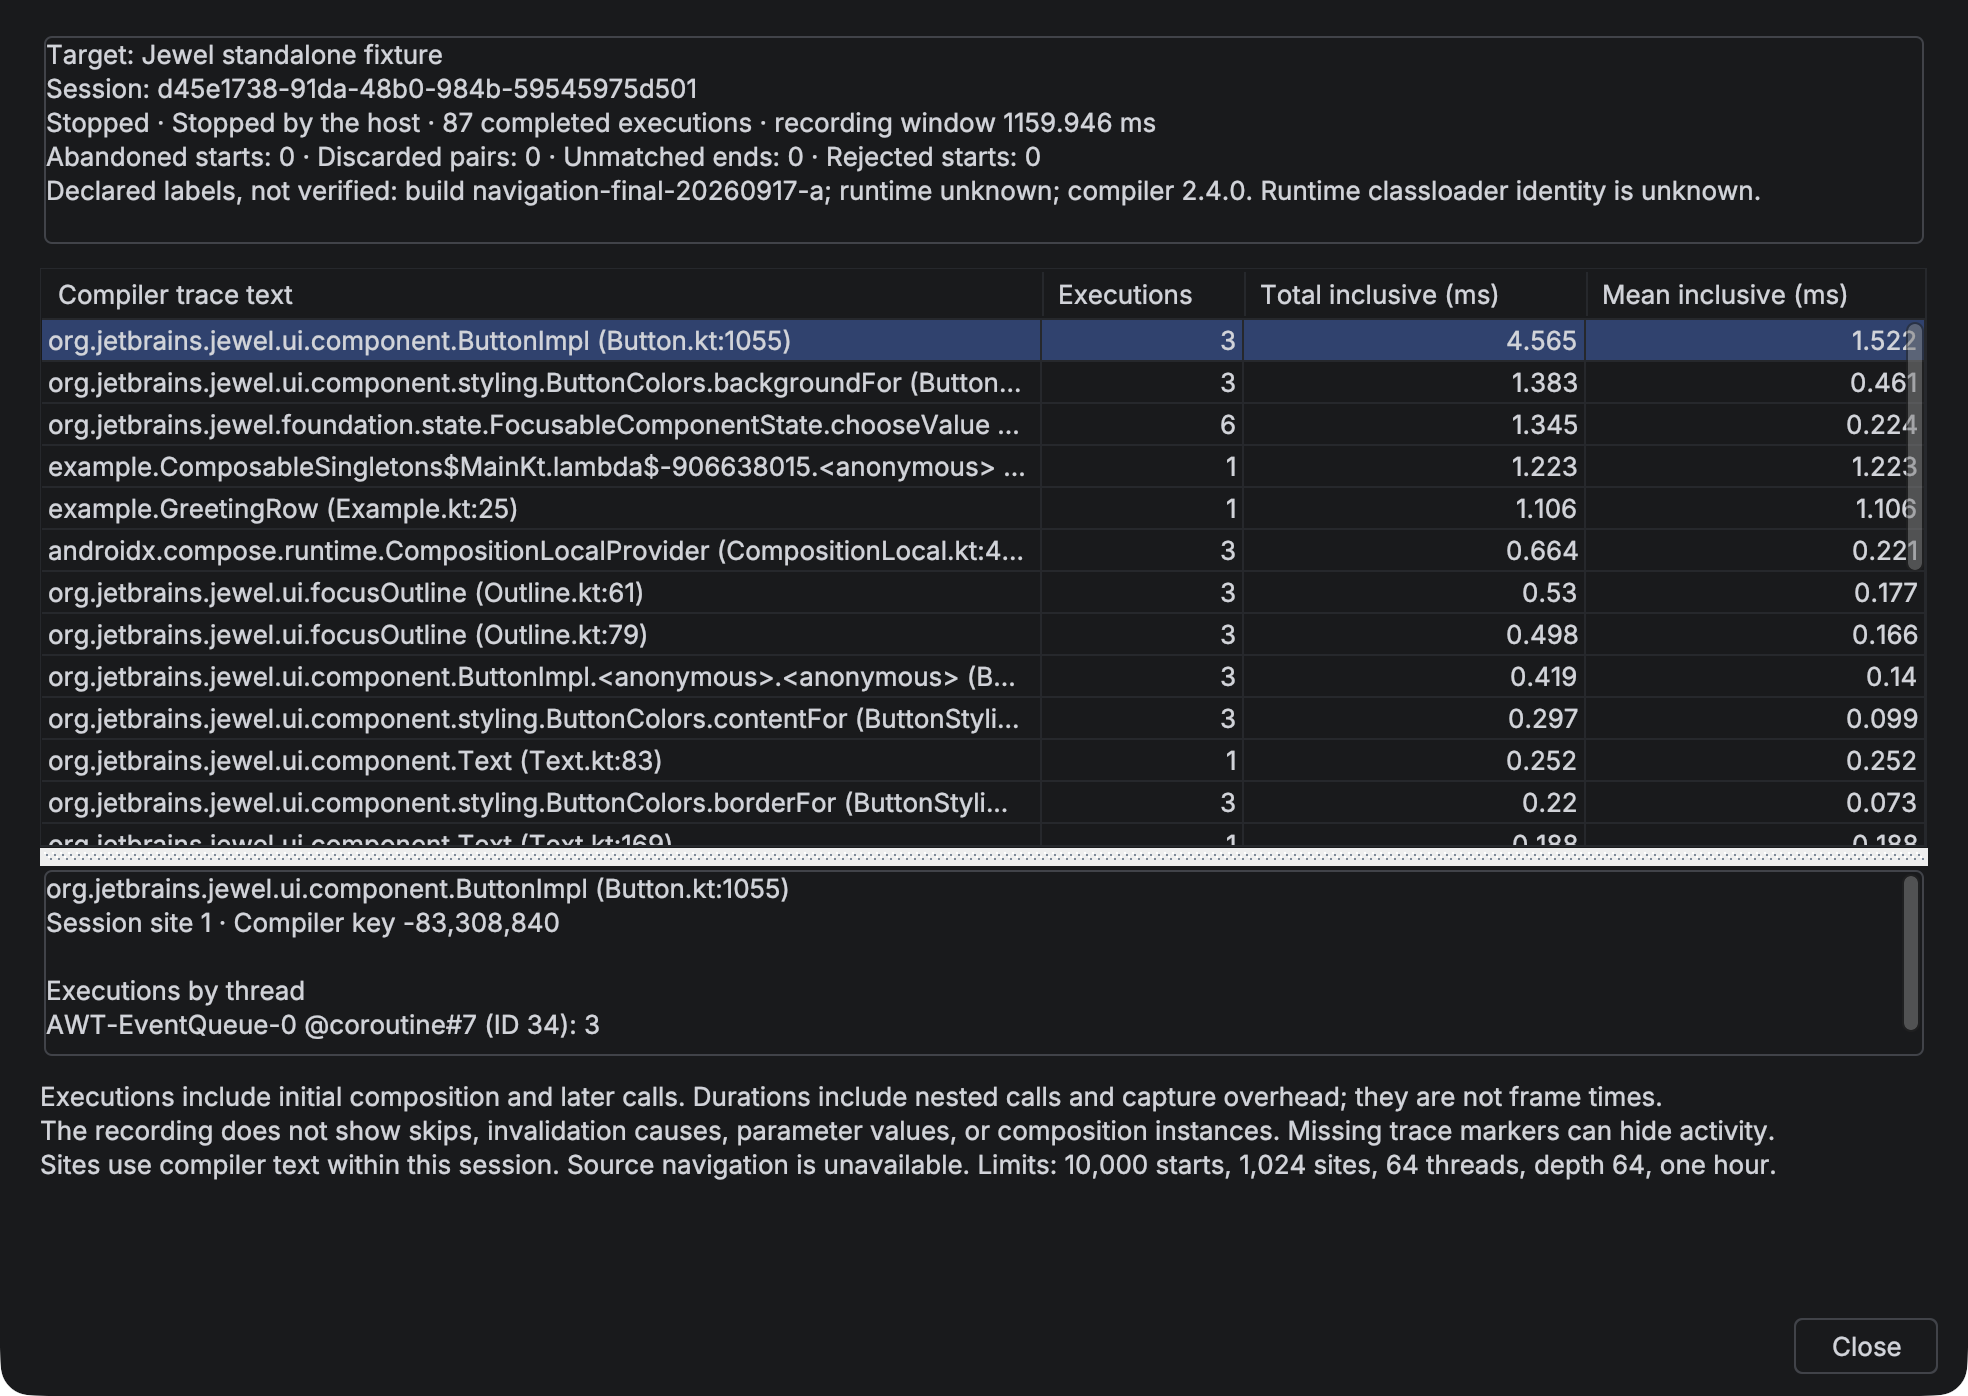
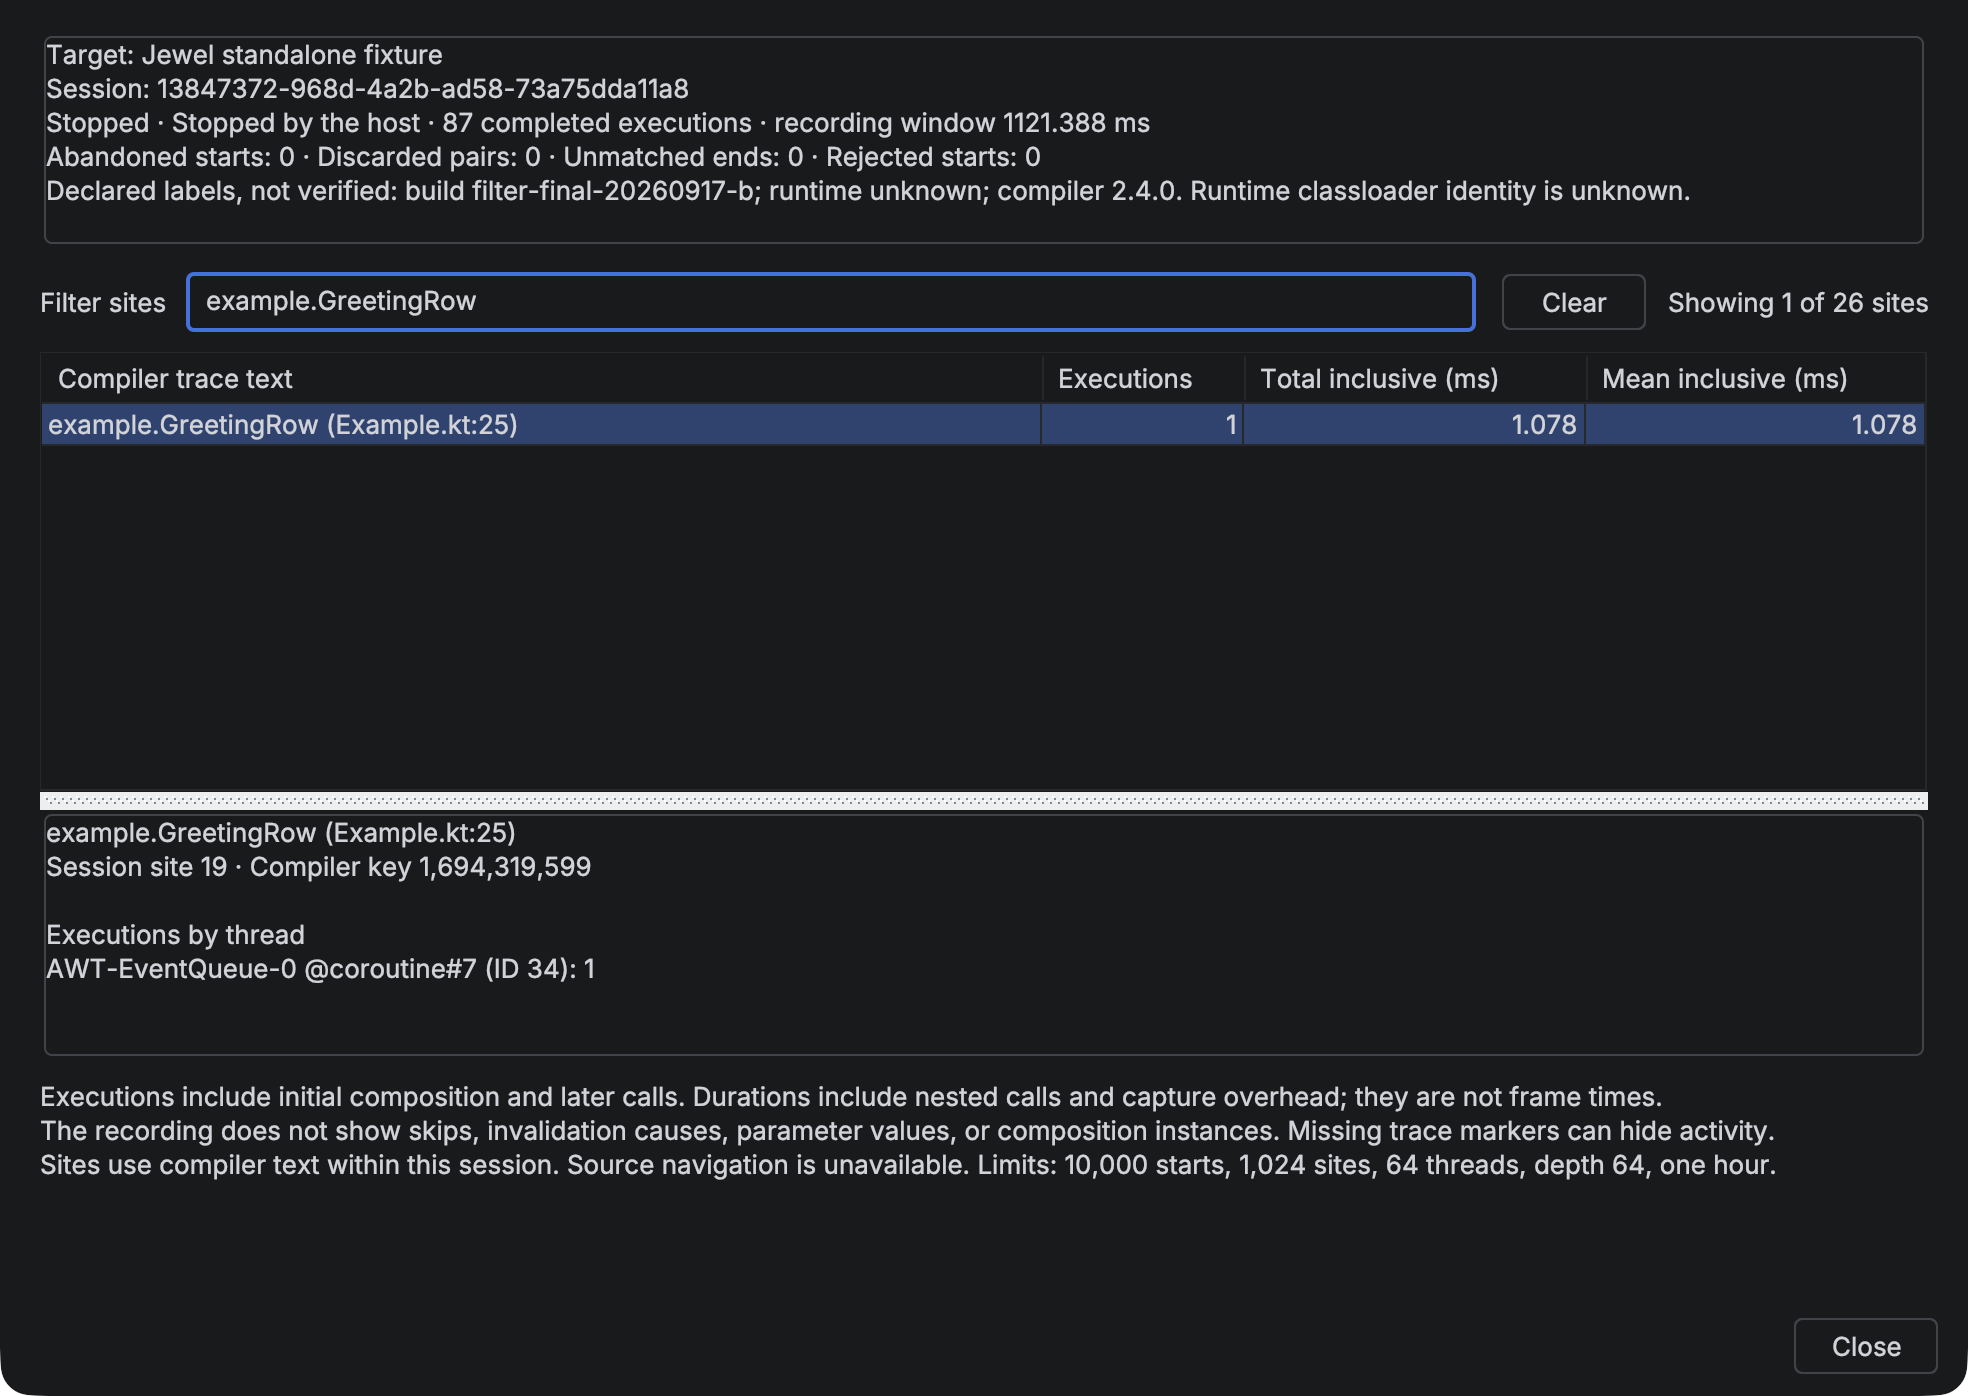
Add literal site filtering to saved recording reports
Preserve selection and session totals while filtering compiler trace text. Add focused tests and Spectre coverage for both targets. Refresh the Retina guide captures for version 0.3.2.

Validation: 54 plugin tests, 13 script tests, both IDE scenarios, static checks, package checks, and IU262 verification pass. GLM-5.3 and K3-256K reviews are clean.

diff --git a/src/main/kotlin/dev/sebastiano/jewel/tooling/RecordingReportPanel.kt b/src/main/kotlin/dev/sebastiano/jewel/tooling/RecordingReportPanel.kt
@@ -1,7 +1,9 @@
 package dev.sebastiano.jewel.tooling
 
+import com.intellij.ui.DocumentAdapter
 import com.intellij.ui.components.JBScrollPane
 import com.intellij.ui.components.JBTextArea
+import com.intellij.ui.components.JBTextField
 import com.intellij.ui.table.JBTable
 import com.intellij.util.ui.JBUI
 import com.intellij.util.ui.UIUtil
@@ -10,24 +12,38 @@ import dev.sebastiano.jewel.tooling.recording.SiteSummary
 import java.awt.BorderLayout
 import java.text.NumberFormat
 import java.util.Locale
+import javax.swing.JButton
 import javax.swing.JComponent
+import javax.swing.JLabel
 import javax.swing.JPanel
 import javax.swing.JSplitPane
 import javax.swing.ListSelectionModel
+import javax.swing.RowFilter
+import javax.swing.event.DocumentEvent
 import javax.swing.table.AbstractTableModel
 import javax.swing.table.DefaultTableCellRenderer
+import javax.swing.table.TableRowSorter
 import javax.swing.text.DefaultCaret
 
 private const val NANOS_PER_MILLISECOND = 1_000_000.0
 
 internal class RecordingReportPanel(private val data: RecordingReportData) {
   private val details = textArea("recording.site.details")
+  private val model = SitesModel(data.sites)
+  private val sorter = TableRowSorter(model)
+  private val filter =
+    JBTextField().apply {
+      name = "jewel-recording-filter"
+      accessibleContext.accessibleName = JewelToolingBundle.message("recording.filter.accessible")
+    }
+  private val count = JLabel().apply { putClientProperty("html.disable", true) }
+  private var filtering = false
   private val table =
-    JBTable(SitesModel(data.sites)).apply {
+    JBTable(model).apply {
       name = "jewel-recording-sites"
       accessibleContext.accessibleName = JewelToolingBundle.message("recording.sites")
       setSelectionMode(ListSelectionModel.SINGLE_SELECTION)
-      autoCreateRowSorter = true
+      rowSorter = sorter
       columnModel.getColumn(1).preferredWidth = 100
       columnModel.getColumn(2).preferredWidth = 170
       columnModel.getColumn(3).preferredWidth = 170
@@ -45,7 +61,9 @@ internal class RecordingReportPanel(private val data: RecordingReportData) {
           }
         },
       )
-      selectionModel.addListSelectionListener { if (!it.valueIsAdjusting) showSelection() }
+      selectionModel.addListSelectionListener {
+        if (!it.valueIsAdjusting && !filtering) showSelection()
+      }
     }
 
   val component: JComponent =
@@ -63,10 +81,17 @@ internal class RecordingReportPanel(private val data: RecordingReportData) {
         BorderLayout.NORTH,
       )
       add(
-        JSplitPane(JSplitPane.VERTICAL_SPLIT, JBScrollPane(table), JBScrollPane(details)).apply {
-          resizeWeight = 0.7
-          dividerLocation = JBUI.scale(290)
-          border = null
+        JPanel(BorderLayout(0, JBUI.scale(FILTER_GAP))).apply {
+          add(filterBar(), BorderLayout.NORTH)
+          add(
+            JSplitPane(JSplitPane.VERTICAL_SPLIT, JBScrollPane(table), JBScrollPane(details))
+              .apply {
+                resizeWeight = 0.7
+                dividerLocation = JBUI.scale(220)
+                border = null
+              },
+            BorderLayout.CENTER,
+          )
         },
         BorderLayout.CENTER,
       )
@@ -86,16 +111,83 @@ internal class RecordingReportPanel(private val data: RecordingReportData) {
     }
 
   val focus: JComponent
-    get() = table
+    get() = filter
 
   init {
-    if (data.sites.isNotEmpty()) table.setRowSelectionInterval(0, 0)
-    else details.text = JewelToolingBundle.message("recording.empty")
+    filter.document.addDocumentListener(
+      object : DocumentAdapter() {
+        override fun textChanged(event: DocumentEvent) = applyFilter()
+      }
+    )
+    applyFilter()
+  }
+
+  private fun filterBar(): JComponent =
+    JPanel(BorderLayout(JBUI.scale(FILTER_GAP), 0)).apply {
+      isOpaque = false
+      add(
+        JLabel(JewelToolingBundle.message("recording.filter")).apply {
+          labelFor = filter
+          putClientProperty("html.disable", true)
+        },
+        BorderLayout.WEST,
+      )
+      add(filter, BorderLayout.CENTER)
+      add(
+        JPanel(BorderLayout(JBUI.scale(FILTER_GAP), 0)).apply {
+          isOpaque = false
+          add(
+            JButton(JewelToolingBundle.message("recording.filter.clear")).apply {
+              name = "jewel-recording-filter-clear"
+              putClientProperty("html.disable", true)
+              addActionListener {
+                filter.text = ""
+                filter.requestFocusInWindow()
+              }
+            },
+            BorderLayout.WEST,
+          )
+          add(count, BorderLayout.CENTER)
+        },
+        BorderLayout.EAST,
+      )
+    }
+
+  private fun applyFilter() {
+    val selected = table.selectedRow.takeIf { it >= 0 }?.let { table.convertRowIndexToModel(it) }
+    val query = filter.text.lowercase(Locale.ROOT)
+    filtering = true
+    try {
+      sorter.rowFilter =
+        if (query.isEmpty()) null
+        else
+          object : RowFilter<SitesModel, Int>() {
+            override fun include(entry: Entry<out SitesModel, out Int>): Boolean =
+              model.matches(entry.identifier, query)
+          }
+      val visible = selected?.let { table.convertRowIndexToView(it) } ?: -1
+      if (visible >= 0) table.setRowSelectionInterval(visible, visible)
+      else if (table.rowCount > 0) table.setRowSelectionInterval(0, 0) else table.clearSelection()
+    } finally {
+      filtering = false
+    }
+    count.text =
+      JewelToolingBundle.message("recording.filter.count", table.rowCount, model.rowCount)
+    showSelection()
   }
 
   private fun showSelection() {
     val row = table.selectedRow
-    if (row < 0) return
+    if (row < 0) {
+      details.text =
+        if (table.rowCount == 0)
+          JewelToolingBundle.message(
+            if (data.sites.isEmpty() && filter.text.isEmpty()) "recording.empty"
+            else "recording.filter.empty"
+          )
+        else ""
+      return
+    }
     val site = data.sites[table.convertRowIndexToModel(row)]
     val labels = data.recording.threads.associate { it.id to it.name }
     details.text = buildString {
@@ -151,6 +243,7 @@ internal class RecordingReportPanel(private val data: RecordingReportData) {
   }
 
   companion object {
+    private const val FILTER_GAP = 8
     private const val MIN_TEXT_WIDTH = 80
     private const val MIN_TEXT_HEIGHT = 40
 
@@ -170,6 +263,10 @@ internal class RecordingReportPanel(private val data: RecordingReportData) {
 }
 
 private class SitesModel(private val sites: List<SiteSummary>) : AbstractTableModel() {
+  private val normalized = sites.map { it.site.info.lowercase(Locale.ROOT) }
+
+  fun matches(row: Int, query: String): Boolean = normalized[row].contains(query)
+
   private val columns =
     listOf(
       "recording.column.site",

diff --git a/src/test/kotlin/dev/sebastiano/jewel/tooling/RecordingReportPanelTest.kt b/src/test/kotlin/dev/sebastiano/jewel/tooling/RecordingReportPanelTest.kt
@@ -13,8 +13,10 @@ import dev.sebastiano.jewel.tooling.recording.TraceThread
 import dev.sebastiano.jewel.tooling.recording.summarize
 import java.awt.Component
 import java.awt.Container
+import javax.swing.JButton
 import javax.swing.JLabel
 import javax.swing.JTable
+import javax.swing.JTextField
 import javax.swing.plaf.basic.BasicHTML
 import javax.swing.text.JTextComponent
 
@@ -68,6 +70,90 @@ class RecordingReportPanelTest : BasePlatformTestCase() {
       }
     assertTrue(details.text.startsWith("<html><b>First</b>"))
     assertTrue(details.text.contains("<html>UI (ID 1): 2"))
+  }
+
+  fun testLiteralFilterClearsDetailsAndRestoresRows() {
+    val recording = recording()
+    val panel = RecordingReportPanel(RecordingReportData(recording, recording.summarize()))
+    val components = descendants(panel.component)
+    val table = components.filterIsInstance<JTable>().single()
+    val field = components.filterIsInstance<JTextField>().single()
+    val details =
+      components.filterIsInstance<JTextComponent>().single {
+        it.accessibleContext.accessibleName == JewelToolingBundle.message("recording.site.details")
+      }
+    assertSame(field, panel.focus)
+    assertTrue(components.filterIsInstance<JLabel>().any { it.labelFor === field })
+    table.rowSorter.toggleSortOrder(1)
+    field.text = "FIRST"
+    assertEquals(1, table.rowCount)
+    assertEquals(2, table.getValueAt(0, 1))
+    assertTrue(details.text.startsWith("<html><b>First</b>"))
+    field.text = ".*"
+    assertEquals(0, table.rowCount)
+    assertEquals(JewelToolingBundle.message("recording.filter.empty"), details.text)
+    assertTrue(
+      components.filterIsInstance<JLabel>().any {
+        it.text == JewelToolingBundle.message("recording.filter.count", 0, 2)
+      }
+    )
+    components.filterIsInstance<JButton>().single().doClick()
+    assertEquals("", field.text)
+    assertEquals(2, table.rowCount)
+    assertEquals(1, table.getValueAt(0, 1))
+    assertTrue(details.text.startsWith("Second"))
+  }
+
+  fun testFilterSearchesFullTextAndPreservesVisibleSelection() {
+    val recording =
+      recording().let { original ->
+        original.copy(
+          sites =
+            listOf(original.sites[0].copy(info = "x".repeat(800) + "Needle[.*]"), original.sites[1])
+        )
+      }
+    val panel = RecordingReportPanel(RecordingReportData(recording, recording.summarize()))
+    val components = descendants(panel.component)
+    val table = components.filterIsInstance<JTable>().single()
+    val field = components.filterIsInstance<JTextField>().single()
+    val summary =
+      components.filterIsInstance<JTextComponent>().single {
+        it.accessibleContext.accessibleName == JewelToolingBundle.message("recording.summary")
+      }
+    val before = summary.text
+    field.text = "needle[.*]"
+    assertEquals(1, table.rowCount)
+    field.text = ""
+    assertEquals(2, table.getValueAt(table.selectedRow, 1))
+    assertEquals(before, summary.text)
+    table.clearSelection()
+    val details =
+      components.filterIsInstance<JTextComponent>().single {
+        it.accessibleContext.accessibleName == JewelToolingBundle.message("recording.site.details")
+      }
+    assertEquals("", details.text)
+  }
+
+  fun testFilterHandlesTheSiteLimitAndEmptyRecording() {
+    val sites = (1..1024).map { TraceSite(it, it, "site-$it") }
+    val full =
+      recording().copy(sites = sites, events = sites.map { TraceEvent(it.id, 1, 0, 1, 0, 0) })
+    val panel = RecordingReportPanel(RecordingReportData(full, full.summarize()))
+    val components = descendants(panel.component)
+    val table = components.filterIsInstance<JTable>().single()
+    val field = components.filterIsInstance<JTextField>().single()
+    assertEquals(1024, table.rowCount)
+    field.text = "SITE-1024"
+    assertEquals(1, table.rowCount)
+    field.text = ""
+    assertEquals(1024, table.rowCount)
+    val empty = recording().copy(sites = emptyList(), events = emptyList())
+    val emptyPanel = RecordingReportPanel(RecordingReportData(empty, empty.summarize()))
+    assertTrue(
+      descendants(emptyPanel.component).filterIsInstance<JTextComponent>().any {
+        it.text == JewelToolingBundle.message("recording.empty")
+      }
+    )
   }
 
   private fun descendants(component: Component): List<Component> =

diff --git a/e2e/driver-plugin/src/main/kotlin/dev/sebastiano/jewel/tooling/e2e/RecordingScenario.kt b/e2e/driver-plugin/src/main/kotlin/dev/sebastiano/jewel/tooling/e2e/RecordingScenario.kt
@@ -16,8 +16,10 @@ import java.nio.file.Files
 import java.nio.file.Path
 import java.util.concurrent.CompletableFuture
 import javax.imageio.ImageIO
+import javax.swing.JButton
 import javax.swing.JDialog
 import javax.swing.JTable
+import javax.swing.JTextField
 import javax.swing.text.JTextComponent
 import kotlinx.coroutines.CoroutineScope
 import kotlinx.coroutines.delay
@@ -91,6 +93,21 @@ internal class RecordingScenario(private val project: Project, private val scope
       "executions=$executions; sites=${table.rowCount}; pluginLoader=$loaderName\n$text"
     }
     Files.writeString(output.resolve("recording-evidence.txt"), evidence)
+    val totalSites = edt {
+      val children = descendants(window)
+      val table = children.filterIsInstance<JTable>().single { it.name == "jewel-recording-sites" }
+      val total = table.rowCount
+      children.filterIsInstance<JTextField>().single { it.name == "jewel-recording-filter" }.text =
+        "example.GreetingRow"
+      check(table.rowCount == 1)
+      check(table.getValueAt(0, 0).toString().contains("example.GreetingRow"))
+      check(
+        children.filterIsInstance<JTextComponent>().any {
+          it.text.startsWith("example.GreetingRow") && it.text.contains("Session site")
+        }
+      )
+      total
+    }
     delay(PAINT_SETTLE_MS)
     val region = edt {
       check(window.height <= MAX_REPORT_HEIGHT) {
@@ -108,6 +125,27 @@ internal class RecordingScenario(private val project: Project, private val scope
       """{"captureId":"${System.getProperty("jewel.test.captureId", "development")}",
         "logicalWidth":${region.width},"logicalHeight":${region.height},
         "scaleX":${transform.scaleX},"scaleY":${transform.scaleY}}""",
+    )
+    val clear = edt {
+      descendants(window).filterIsInstance<JButton>().single {
+        it.name == "jewel-recording-filter-clear"
+      }
+    }
+    val point = edt {
+      clear.locationOnScreen.apply { translate(clear.width / 2, clear.height / 2) }
+    }
+    robot.click(point.x, point.y)
+    await("filter cleared") {
+      edt {
+        descendants(window)
+          .filterIsInstance<JTable>()
+          .single { it.name == "jewel-recording-sites" }
+          .rowCount == totalSites
+      }
+    }
+    Files.writeString(
+      output.resolve("recording-filter.txt"),
+      "PASS: literal filter and Clear restored $totalSites sites",
     )
     for (id in listOf(KeyEvent.KEY_PRESSED, KeyEvent.KEY_RELEASED)) {
       java.awt.Toolkit.getDefaultToolkit()

diff --git a/e2e/runner/src/test/kotlin/dev/sebastiano/jewel/tooling/e2e/JewelTargetsTest.kt b/e2e/runner/src/test/kotlin/dev/sebastiano/jewel/tooling/e2e/JewelTargetsTest.kt
@@ -117,6 +117,7 @@ class JewelTargetsTest {
       check(Files.size(output.resolve("recording-evidence.txt")) > 0)
       check(Files.readString(output.resolve("recording-lifecycle.txt")).startsWith("PASS:"))
       check(Files.readString(output.resolve("navigation.txt")).startsWith("PASS:"))
+      check(Files.readString(output.resolve("recording-filter.txt")).startsWith("PASS:"))
       if (target == "standalone") {
         check(Files.size(output.resolve("explanation.png")) > 0)
         check(Files.size(output.resolve("details-dark.png")) > 0)

diff --git a/docs/user-guide.md b/docs/user-guide.md
@@ -4,7 +4,7 @@ Jewel Tooling shows a static stability estimate beside each parameter of a Kotli
 
 ## Install the plugin
 
-Build with JDK 21 using `./gradlew :buildPlugin`. In IntelliJ IDEA, open **Settings → Plugins**, choose the gear menu, then **Install Plugin from Disk**. Select `build/distributions/jewel-tooling-0.3.1.zip` and restart when prompted.
+Build with JDK 21 using `./gradlew :buildPlugin`. In IntelliJ IDEA, open **Settings → Plugins**, choose the gear menu, then **Install Plugin from Disk**. Select `build/distributions/jewel-tooling-0.3.2.zip` and restart when prompted.
 
 The build targets IntelliJ IDEA 2026.2.0.1 with its bundled Kotlin plugin. This IDE uses K2. There is no upper IDE build limit, so newer IDEs can install the plugin. Only build 262.8665.337 has been validated; newer IDE and Android Studio builds may need API compatibility fixes.
 
@@ -98,6 +98,10 @@ The report shows the target, session, status, recording window, and any incomple
 ![A saved Jewel Standalone recording with execution counts and inclusive durations](images/recording-standalone.png)
 
 ![A saved IJPL recording from the Bazel fixture](images/recording-ijpl.png)
+
+Use **Filter sites** to find text in the full compiler trace description. Matching ignores case and treats punctuation and spaces literally.
+For example, enter `example.GreetingRow` to find that call site. Choose **Clear** to restore all rows.
+The result count shows visible sites out of all recorded sites. Filtering does not change session totals or per-site measurements.
 
 An execution is a completed pair of Compose trace callbacks. It can be an initial composition or a later call. The callback does not identify which occurred. Total and mean durations include nested calls and capture overhead. They are not frame times.
 

diff --git a/README.md b/README.md
@@ -19,7 +19,7 @@ To use an existing compatible IDE distribution instead of downloading one:
 ./gradlew -PlocalIdePath=/path/to/IntelliJIDEA.app/Contents :buildPlugin
 ```
 
-Install `build/distributions/jewel-tooling-0.3.1.zip` through **Settings > Plugins > gear > Install Plugin from Disk**.
+Install `build/distributions/jewel-tooling-0.3.2.zip` through **Settings > Plugins > gear > Install Plugin from Disk**.
 Open a project, allow indexing to finish, then open a Kotlin file with `@Composable` functions.
 Hints appear after parameter types; hover for a short explanation. Click a function’s gutter indicator
 for a summary and a scrollable explanation of every input, or use **Inspect Compose Stability** in Find Action.
